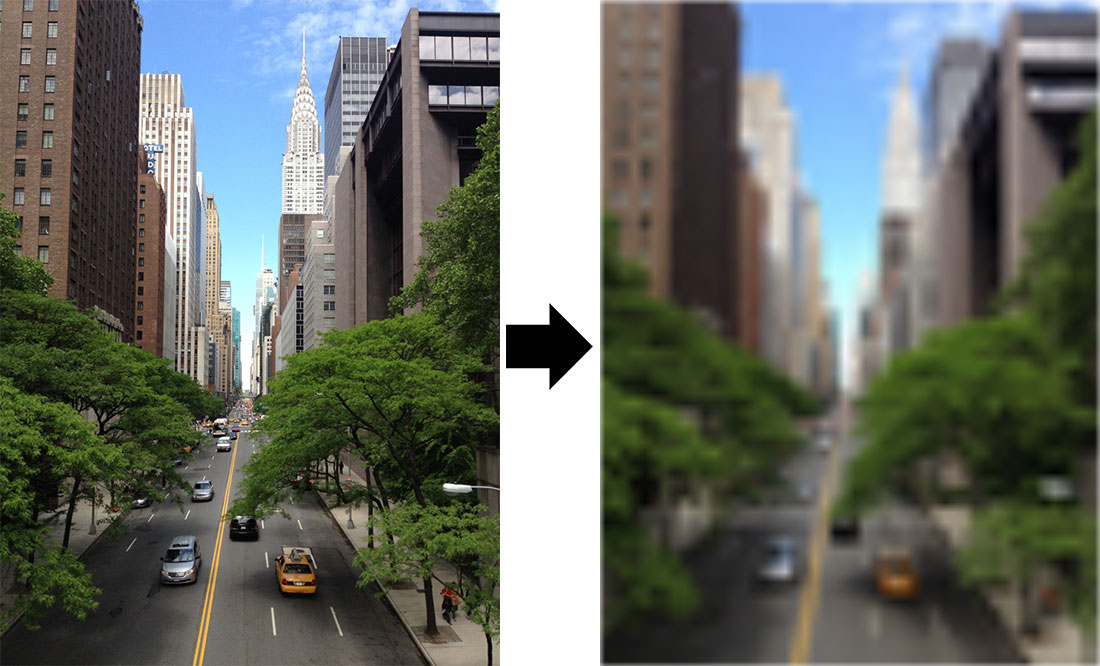
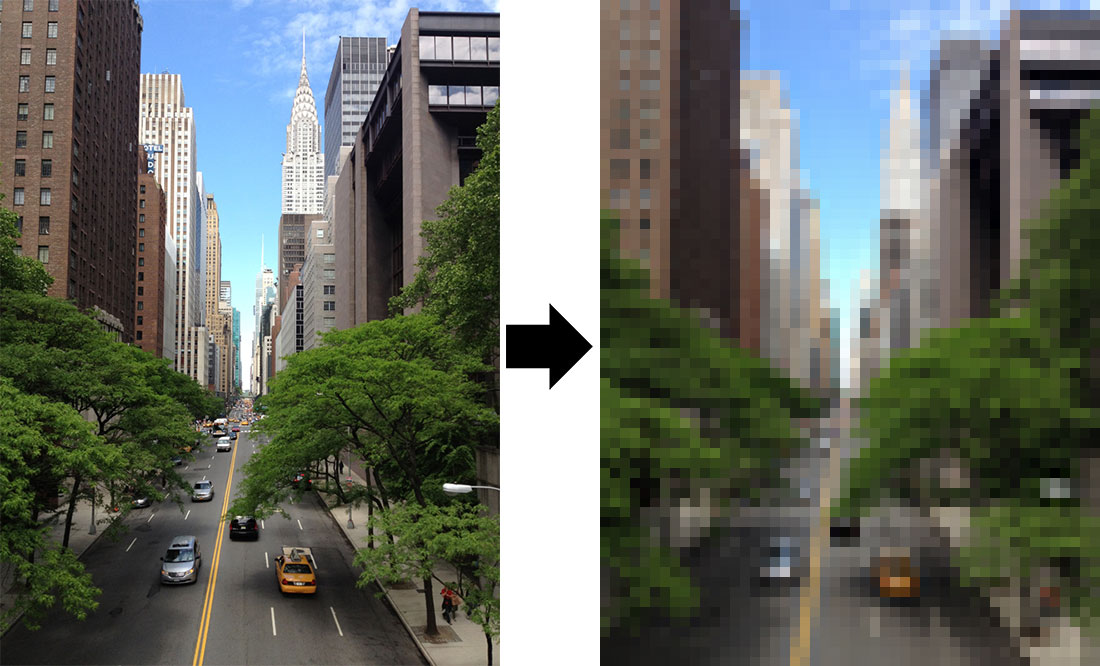
update screenshot

diff --git a/index.js b/index.js
@@ -37,8 +37,8 @@ function pixelate(dataBuffer, options, callback) {
   var context = canvas.getContext('2d');
 
   // Disable pixel smoothing to give those crisp edges.
-  //context.imageSmoothingEnabled = false;
-  //context.patternQuality = 'fast';
+  context.imageSmoothingEnabled = false;
+  context.patternQuality = 'fast';
 
   // Resize to smaller image.
   gm(dataBuffer).resize(scaledWidth).toBuffer('PNG', function(err, buffer) {
